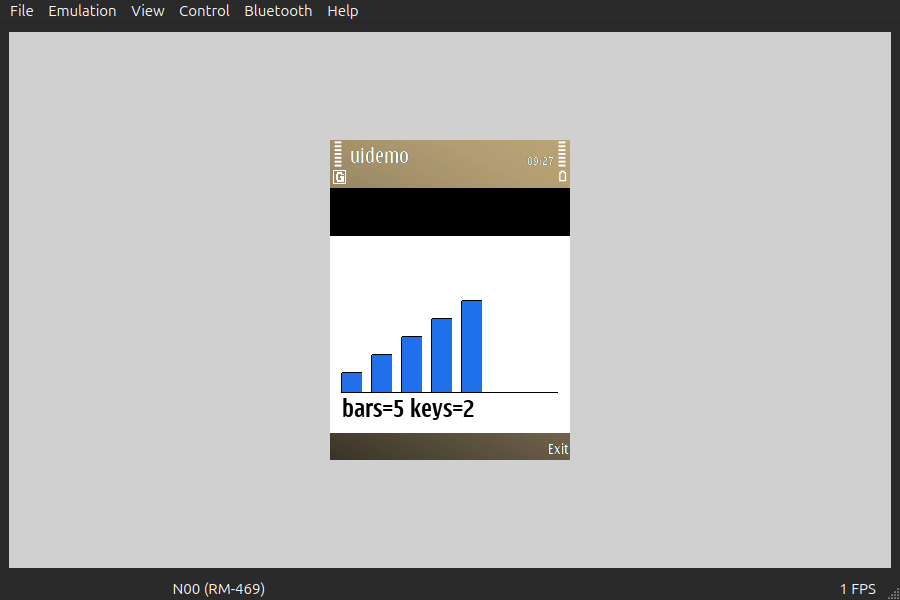
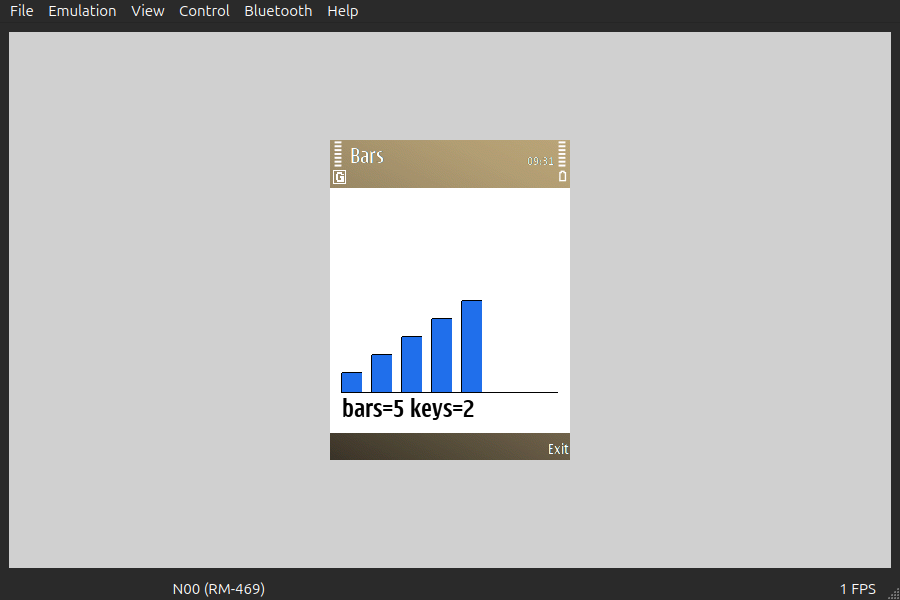
Clear the view with the rect form, which is what covers the whole control.

Changed region(s): [[0.3422, 0.3, 0.6533, 0.42], [0.3733, 0.24, 0.4667, 0.27]]

diff --git a/symbian-rs/crates/symbian-ui/src/gc.rs b/symbian-rs/crates/symbian-ui/src/gc.rs
@@ -25,6 +25,8 @@ pub const MAX_TEXT: usize = 128;
 pub struct Gc<'a> {
     host: &'a Host,
     gc: *mut c_void,
+    /// The view's own area, so that [`Gc::clear`] can mean "all of it".
+    area: Rect,
 }
 
 impl<'a> Gc<'a> {
@@ -32,18 +34,22 @@ impl<'a> Gc<'a> {
     ///
     /// `gc` is the `CWindowGc*` the shim passed to `draw` and is valid for the whole
     /// call; `host` is the shim's `.rodata` table, already length-checked.
-    pub(crate) const unsafe fn new(host: &'a Host, gc: *mut c_void) -> Self {
-        Self { host, gc }
+    pub(crate) const unsafe fn new(host: &'a Host, gc: *mut c_void, area: Rect) -> Self {
+        Self { host, gc, area }
     }
 
-    /// `CWindowGc::Clear()` — the whole clipping region, filled with the brush.
+    /// Fills the whole view with the brush colour, so set the brush first: what a
+    /// clear paints otherwise is whatever brush the framework left behind.
     ///
-    /// Set the brush first: the colour a bare `clear` uses is whatever the framework
-    /// left behind, which showed up in experiment 76 as an unexplained black band.
+    /// It is `CGraphicsContext::Clear(const TRect&)` over the view's area, and **not**
+    /// the no-argument `Clear()`. Observed in EKA2L1 with a probe stripe at the top of
+    /// the control: the no-argument form leaves the top ~40 pixels of a window-owning
+    /// control unpainted — the black band experiment 76 recorded and could not isolate
+    /// — while the rect form covers them.
     pub fn clear(&mut self) {
         // SAFETY: `clear` is a non-leaving pure virtual of `CGraphicsContext` reached
         // through the shim, and `self.gc` is live for this call by construction.
-        unsafe { (self.host.clear)(self.gc) }
+        unsafe { (self.host.clear)(self.gc, self.area.raw()) }
     }
 
     /// `SetPenColor` — the colour of lines and of a rectangle's outline.

diff --git a/symbian-rs/shims/s60/symrs_avkon.cpp b/symbian-rs/shims/s60/symrs_avkon.cpp
@@ -52,9 +52,15 @@ static TRect Rect(SymRsRect aRect)
 	return TRect(TPoint(aRect.x, aRect.y), TSize(aRect.w, aRect.h));
 	}
 
-static void HostClear(void* aGc)
+// The rect form, and not the no-argument Clear(). Observed in EKA2L1 with a red
+// probe stripe at the top of the control: `Clear()` leaves the top ~40 pixels of a
+// window-owning control's area unpainted -- the black band experiment 76 saw and
+// could not isolate -- while `Clear(aRect)` and `DrawRect(aRect)` over the same area
+// both cover it. Whatever narrows the no-argument form's clipping region, the rect
+// form is the one that means "my whole view".
+static void HostClear(void* aGc, SymRsRect aRect)
 	{
-	Gc(aGc)->Clear();
+	Gc(aGc)->Clear(Rect(aRect));
 	}
 
 static void HostSetPen(void* aGc, TUint32 aRgb)

diff --git a/symbian-rs/crates/symbian-ui/src/vtbl.rs b/symbian-rs/crates/symbian-ui/src/vtbl.rs
@@ -97,8 +97,9 @@ extern "C" fn draw<A: App>(app: *mut c_void, gc: *mut c_void, area: RawRect) {
     };
     // SAFETY: `gc` is the `CWindowGc&` the framework handed `Draw` and is valid for
     // exactly this call, which is the lifetime `Gc` carries.
-    let mut gc = unsafe { Gc::new(ui.host(), gc) };
-    state.app.draw(&mut gc, Rect::from_raw(area));
+    let area = Rect::from_raw(area);
+    let mut gc = unsafe { Gc::new(ui.host(), gc, area) };
+    state.app.draw(&mut gc, area);
 }
 
 extern "C" fn offer_key<A: App>(app: *mut c_void, event: *const RawKeyEvent, kind: i32) -> i32 {

diff --git a/symbian-rs/examples/ui/src/main.rs b/symbian-rs/examples/ui/src/main.rs
@@ -33,8 +33,8 @@ impl App for Bars {
     }
 
     fn draw(&self, gc: &mut Gc<'_>, area: Rect) {
-        // The brush before the clear: `Clear()` fills with whatever brush the
-        // framework left behind, which is the unexplained black band of experiment 76.
+        // The brush before the clear: a clear paints with whatever brush the
+        // framework left behind otherwise.
         gc.set_brush(Rgb::WHITE);
         gc.clear();
 

diff --git a/symbian-rs/crates/symbian-ui/src/abi.rs b/symbian-rs/crates/symbian-ui/src/abi.rs
@@ -38,7 +38,7 @@ pub struct RawKeyEvent {
 #[repr(C)]
 pub struct Host {
     pub size: u32,
-    pub clear: unsafe extern "C" fn(*mut c_void),
+    pub clear: unsafe extern "C" fn(*mut c_void, RawRect),
     pub set_pen: unsafe extern "C" fn(*mut c_void, u32),
     pub set_brush: unsafe extern "C" fn(*mut c_void, u32, i32),
     pub draw_rect: unsafe extern "C" fn(*mut c_void, RawRect),

diff --git a/symbian-rs/shims/s60/symrs_avkon.h b/symbian-rs/shims/s60/symrs_avkon.h
@@ -56,7 +56,7 @@ typedef struct SymRsKeyEvent
 typedef struct SymRsHost
 	{
 	TUint32 iSize;
-	void (*clear)(void* aGc);
+	void (*clear)(void* aGc, SymRsRect aRect);
 	void (*set_pen)(void* aGc, TUint32 aRgb);
 	void (*set_brush)(void* aGc, TUint32 aRgb, TInt aSolid);
 	void (*draw_rect)(void* aGc, SymRsRect aRect);

diff --git a/docs/research/wip/rust-ui-75.md b/docs/research/wip/rust-ui-75.md
@@ -49,9 +49,17 @@ subclasses forwarding virtuals to a Rust vtable, `crates/symbian-ui`, `#[main(gu
   (63,68)-(152,185) inside it. So `OfferKeyEventL` → Rust `key` → `DrawDeferred` →
   Rust `draw` all run. (Experiment 76's `uiprobe` never saw a key; this shim's control
   stack does, and it is the same `AddToStackL(iView)` the C++ `examples/gui` uses.)
-- **The unexplained black band of experiment 76 is reproduced**: a ~42 px black strip
-  across the top of the client area, above everything the Rust `draw` paints.
-  `gc.clear()` with a white brush does not cover it. Still to isolate.
+- **The black band of experiment 76 is isolated and fixed.** Probe 1: a red stripe at
+  `Rect::new(0, 0, area.width, 6)` landed at the *top of the band*, so the band is
+  inside the control's own area. Probe 2: a filled `DrawRect(area)` in place of
+  `Clear()` covered it completely. So the no-argument `CGraphicsContext::Clear()`
+  leaves the top ~40 px of a window-owning control unpainted on this platform, while
+  `Clear(aRect)` and `DrawRect(aRect)` over the same rectangle do not. The host entry
+  is now `Clear(const TRect&)` over the view's area and the band is gone. *Why* the
+  no-argument form's region is narrower is still not determined.
+- **The caption comes from the generated resource**: the title pane reads `Bars`, the
+  `short_caption` of `[ui]`. (The very first run showed `uidemo` — a stale registration
+  from before this build; a fresh install shows the caption.)
 
 ## Decisions
 
